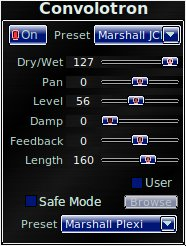
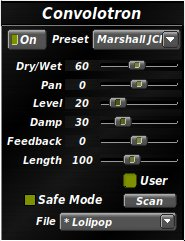
Update Convolotron, Echotron, Reverbtron help images. Update help for File and Scan changes.

diff --git a/doc/help/effects.html b/doc/help/effects.html
@@ -616,6 +616,15 @@ experiment).  Must be wav  format, and keep in mind that
 convolotron only uses the first  "Length" milliseconds  of
 the file...so if you have a file with 100ms silence at the beginning,
 you will get nothing but silence on the output.</p>
+      <p><b>Scan</b>:
+You must put any user files you wish to use in the User default directory
+defined in User Preferences. Rakarrack-plus will scan for user files based on
+the file .wav extension and list them in the File menu on startup. The user
+files will be preceded with a '*'. If you add user files after startup,
+press the Scan button to refresh the File menu.</p>
+      <p><b>File</b>:
+Select any of the default .wav files or user provided files from the choice menu.
+All user files must be placed in the User directory and have a .wav extension to be listed.</p>
       <br>
       </td>
     </tr>
@@ -917,13 +926,24 @@ modulated (like a chorus or flanger).</p>
 file.&nbsp; For example, if you have a text file that defines 20
 echoes, you can limit it to use the first 2 or 3 or....whatever you
 want up to 127.</p>
-<p><b>File</b>: Select from several files supplied by Rakarrack-plus.&nbsp; This
+
+<p><b>Scan</b>:
+You must put any user files you wish to use in the User default directory
+defined in User Preferences. Rakarrack-plus will scan for user files based on
+the file .dly extension and list them in the File menu on startup. The user
+files will be preceded with a '*'. If you add user files after startup,
+press the Scan button to refresh the File menu.</p>
+<p><b>File</b>:
+Select any of the default .dly files or user provided files from the choice menu.
+All user files must be placed in the User directory and have a .dly extension to be listed.
+Select from several files supplied by Rakarrack-plus.&nbsp; This
 will include a broad spectrum of uses so you can get started using
-Echotron without ever touching a text file.</p>
+Echotron without ever touching a text file.
+</p>
 <p><b>User</b>: So you want to do
-something you can't do with one of the default files.&nbsp; You edit
+something you can't do with one of the default files.&nbsp; You can edit
 your own text file with the desired delay times, levels, and filter
-pattern, browse to this file, select, and voila! Your Echotron has
+pattern, scan the file, select, and voila! Your Echotron has
 morphed into a completely unique effect.</p>
 <p><b>Text Files</b></p><p>
 </p><p>Below is an example text file with explanation of each field and any caveats you may need to
@@ -1830,14 +1850,26 @@ stereo (particularly with headphones).</p>
 frequencies are damped in the ES option.</p>
 <p><b>Shuffle</b>: TODO.</p>
 <p><b>Safe</b>: Limits Length regardless of the setting.</p>
-<p><b>User</b>: Browse for your own .rbv file.  These files are
-generated by invoking the rakverb command on a .wav format IR file.
-"rakverb -i foo.wav" will generate a file called "foo.rbv" in the same
-directory.  This is the file you would want to load into
-Reverbtron.</p>
-<p><b>Preset</b>: Rakarrack-plus comes with several IR files already processed
+<p><b>Scan</b>:
+You must put any user files you wish to use in the User default directory
+defined in User Preferences. Rakarrack-plus will scan for user files based on
+the file .rvb extension and list them in the File menu on startup. The user
+files will be preceded with a '*'. If you add user files after startup,
+press the Scan button to refresh the File menu.</p>
+<p><b>File</b>:
+Rakarrack-plus comes with several IR files already processed
 and ready to go so you don't need to search the web looking for impulse
-responses.</p>
+responses.
+Select any of the default .rvb files or user provided files from the choice menu.
+All user files must be placed in the User directory and have a .rvb extension to be listed.</p>
+<p><b>User</b>: User files are generated by invoking the rakverb command on
+a .wav format IR file. "rakverb -i foo.wav" will generate a file called "foo.rbv"
+in the same directory. You can invoke the rakverb command from the main window,
+File/Convert Reverb IR File. This will show a file selector to select the .wav
+file you wish to convert. If you place the .wav file in the User directory, the 
+.rvb file will be generated in the User directory also. Press the Scan button
+to refresh the File choice menu for .rvb files added after start. Then select
+the User file from the menu.</p>
 </td></tr></tbody>
 </table>
 <p><a href="effects.html">Effects</a></p>
